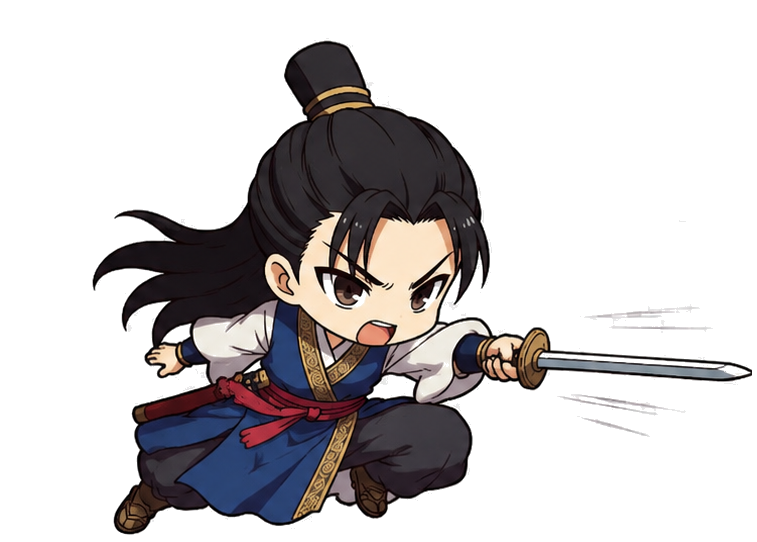
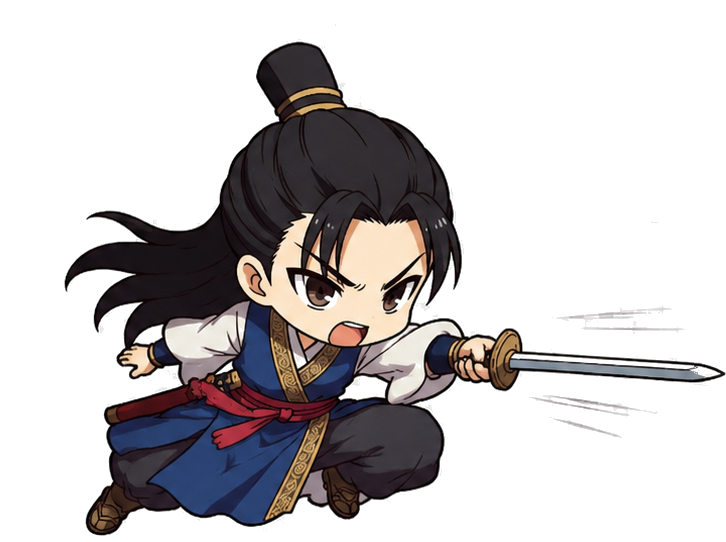
fix: 주인공 공격 모션 스프라이트 재생성 및 전투 포즈 유지
hero-motions.png에서 포즈 이미지를 올바른 크기로 다시 분리하고, 공격/내공술 중 피격 시에도 attack 포즈가 idle로 덮이지 않도록 수정한다.

Changed region(s): [[0.0909, 0.059, 1.0, 1.0], [0.7879, 0.5609, 0.9394, 0.6199]]

diff --git a/js/battle.js b/js/battle.js
@@ -861,7 +861,14 @@ function playExchangeAnims(playerAction, enemyAction, result) {
     else if (playerAction === 'evade') battleSd.playBattleAnim('player', 'evade');
 
     if (enemyAction === 'attack' || result.enemyDamage > 0) battleSd.playBattleAnim('enemy', result.enemyDamage > 0 ? 'hit' : 'attack');
-    if (result.playerDamage > 0) battleSd.playBattleAnim('player', playerAction === 'defend' ? 'defend' : 'hit');
+    if (result.playerDamage > 0) {
+        if (playerAction === 'defend') battleSd.playBattleAnim('player', 'defend');
+        else if (playerAction === 'attack' || playerAction === 'skill') {
+            battleSd.playBattleAnim('player', 'hit', { pose: 'attack' });
+        } else {
+            battleSd.playBattleAnim('player', 'hit');
+        }
+    }
 }
 
 function mergeEnemyWeaponState(enemy, patch) {

diff --git a/js/battle-sd.js b/js/battle-sd.js
@@ -141,12 +141,12 @@ export function mountBattleSprites(enemy) {
     }
 }
 
-export function playBattleAnim(side, action) {
+export function playBattleAnim(side, action, opts = {}) {
     const id = side === 'player' ? 'player-battle-sd' : 'enemy-battle-sd';
     const el = document.getElementById(id);
     if (!el || !action) return;
 
-    const pose = POSE_BY_ACTION[action] || 'idle';
+    const pose = opts.pose || POSE_BY_ACTION[action] || 'idle';
     setBattlePose(side, pose);
 
     if (animTimers[side]) window.clearTimeout(animTimers[side]);